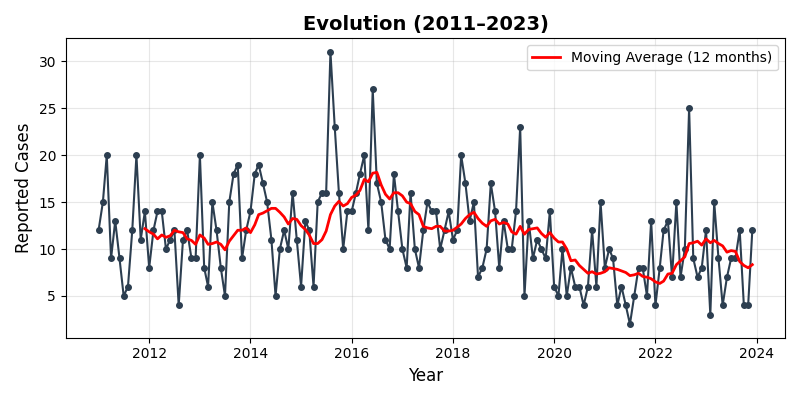
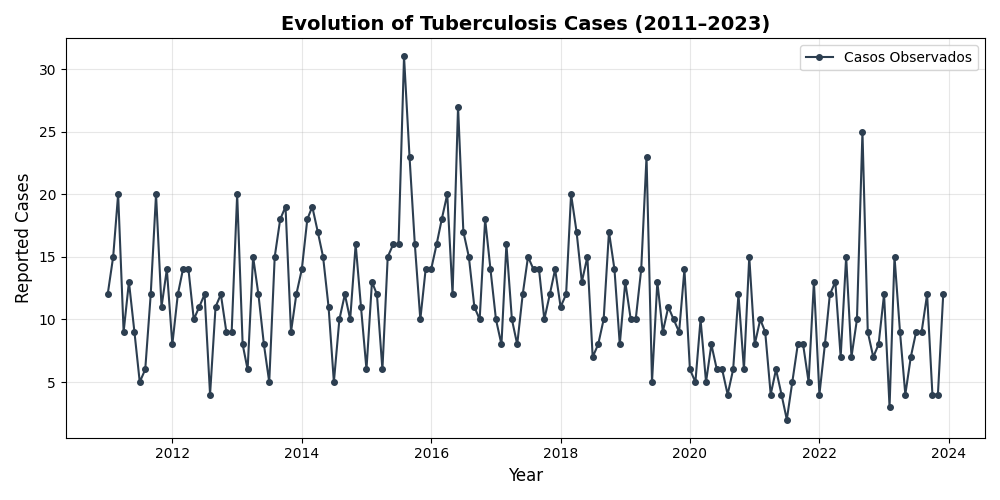
ff

Changed region(s): [[0.0, 0.03, 1.0, 0.96]]

diff --git a/code1.py b/code1.py
@@ -1,104 +1,85 @@
-
-import pandas as pd
-
-# Ler o Excel SEM tentar definir datas ou índices ainda
-df_temp = pd.read_excel('tuberculose_stp.xlsx')
-
-# Imprimir o nome de todas as colunas que o Python encontrou
-print("As colunas encontradas foram:")
-print(df_temp.columns.tolist())
-
-# Imprimir as primeiras 5 linhas para ver o aspeto dos dados
-print("\nPrimeiras linhas dos dados:")
-print(df_temp.head())
-
-
 import pandas as pd
 import matplotlib.pyplot as plt
+from statsmodels.tsa.stattools import adfuller
 
-# --- 1. Carregar os dados ---
-# Como o seu ficheiro parece ser CSV separado por vírgulas
+# %%
+# ==========================================
+# CÉLULA 1: CARREGAR E LIMPAR (Corra esta apenas uma vez)
+# ==========================================
+print("--- A CARREGAR DADOS ---")
 try:
     df = pd.read_csv('tuberculose_stp.csv')
 except:
-    # Caso seja Excel, tenta ler como Excel
     df = pd.read_excel('tuberculose_stp.xlsx')
 
-print("Dados carregados. Linhas totais:", len(df))
+print(f"Dados carregados. Total de linhas brutas: {len(df)}")
 
-# --- 2. Limpeza da coluna "Mês" ---
-# Vamos converter tudo para minúsculas e tirar espaços vazios para evitar erros
+# Normalizar a coluna "Mês"
 df['Mês'] = df['Mês'].astype(str).str.lower().str.strip()
 
-# Criar um mapa ROBUSTO baseado no que vi no seu ficheiro
 mapa_meses = {
-    'jan': 1, 'janeiro': 1,
-    'fev': 2, 'fevereiro': 2,
-    'mar': 3, 'março': 3,
-    'abr': 4, 'abril': 4,
-    'mai': 5, 'maio': 5,
-    'jun': 6, 'junho': 6,
-    'jul': 7, 'julho': 7,
-    'ago': 8, 'agosto': 8, 'agost': 8, # 'agost' apareceu no seu ficheiro
-    'set': 9, 'setembro': 9,
-    'out': 10, 'outubro': 10,
-    'nov': 11, 'novembro': 11,
-    'dez': 12, 'dezembro': 12
+    'jan': 1, 'janeiro': 1, 'fev': 2, 'fevereiro': 2, 'mar': 3, 'março': 3,
+    'abr': 4, 'abril': 4, 'mai': 5, 'maio': 5, 'jun': 6, 'junho': 6,
+    'jul': 7, 'julho': 7, 'ago': 8, 'agosto': 8, 'agost': 8,
+    'set': 9, 'setembro': 9, 'out': 10, 'outubro': 10,
+    'nov': 11, 'novembro': 11, 'dez': 12, 'dezembro': 12
 }
 
-# Aplicar o mapa
 df['Mes_Num'] = df['Mês'].map(mapa_meses)
-
-# Verificar se sobrou algum mês sem número (NaN)
-erros = df[df['Mes_Num'].isna()]
-if not erros.empty:
-    print("Atenção: Algumas linhas foram ignoradas por erro no mês:")
-    print(erros['Mês'].unique())
-    df = df.dropna(subset=['Mes_Num']) # Remove linhas com erro
-
-# Garantir que o mês é inteiro
+df = df.dropna(subset=['Mes_Num'])
 df['Mes_Num'] = df['Mes_Num'].astype(int)
 
-# --- 3. Criar a Data ---
-# Dia 1 de cada mês
-df['Data_Index'] = pd.to_datetime(
-    df['Ano'].astype(str) + '-' + df['Mes_Num'].astype(str) + '-01'
-)
-
-# --- 4. Agregação (Transformar lista de pacientes em Série Temporal) ---
-# Conta quantas linhas existem por cada data
+# Criar Data e Série Temporal
+df['Data_Index'] = pd.to_datetime(df['Ano'].astype(str) + '-' + df['Mes_Num'].astype(str) + '-01')
 df_final = df.groupby('Data_Index').size().reset_index(name='Casos')
-
-# Definir índice temporal
 df_final.set_index('Data_Index', inplace=True)
-
-# Preencher buracos: Se houver meses sem casos, coloca 0
 df_final = df_final.asfreq('MS', fill_value=0)
 
-# --- 5. Resultados e Guardar CSV Limpo ---
-print("\nSérie Temporal Gerada com Sucesso!")
-print(df_final.head())
-print(f"Total de casos contabilizados: {df_final['Casos'].sum()}")
+print("Série Temporal pronta! (Célula 1 concluída)")
 
-# Guardar este ficheiro limpo para usar depois (opcional)
-df_final.to_csv('tuberculose_stp_processado.csv')
 
-# --- 6. Gráfico Profissional ---
-plt.figure(figsize=(8, 4))
-plt.plot(df_final.index, df_final['Casos'], marker='o', markersize=4, linestyle='-', color='#2c3e50', linewidth=1.5)
+# %%
+# ==========================================
+# CÉLULA 2: ESTATÍSTICA (Teste ADF)
+# ==========================================
+def realizar_teste_adf(serie, nome="Série"):
+    print(f"\n--- TESTE DICKEY-FULLER: {nome} ---")
+    serie_limpa = serie.dropna()
+    resultado = adfuller(serie_limpa)
+    p_value = resultado[1]
+    
+    print(f'Estatística: {resultado[0]:.4f}')
+    print(f'Valor-p:     {p_value:.4f}')
+    
+    if p_value < 0.05:
+        print(">> CONCLUSÃO: A série é ESTACIONÁRIA (p < 0.05).")
+    else:
+        print(">> CONCLUSÃO: A série NÃO é estacionária (p > 0.05).")
 
-# Títulos
-plt.title('Evolution (2011–2023)', fontsize=14, fontweight='bold')
+# Executar Testes
+realizar_teste_adf(df_final['Casos'], nome="Original")
+diff_1 = df_final['Casos'].diff()
+realizar_teste_adf(diff_1, nome="1ª Diferença (d=1)")
+
+
+# %%
+# ==========================================
+# CÉLULA 3: GRÁFICO (Pode correr esta muitas vezes para ajustar visual)
+# ==========================================
+plt.figure(figsize=(10, 5))
+
+# Apenas os dados reais
+plt.plot(df_final.index, df_final['Casos'], 
+         marker='o', markersize=4, linestyle='-', 
+         color='#2c3e50', linewidth=1.5, label='Casos Observados')
+
+plt.title('Evolution of Tuberculosis Cases (2011–2023)', fontsize=14, fontweight='bold')
 plt.ylabel('Reported Cases', fontsize=12)
 plt.xlabel('Year', fontsize=12)
-
-# Adicionar uma média móvel (linha vermelha) para suavizar e ver melhor a tendência
-plt.plot(df_final.index, df_final['Casos'].rolling(window=12).mean(), color='red', linewidth=2, label= 'Moving Average (12 months)')
-
 plt.legend()
 plt.grid(True, alpha=0.3)
 plt.tight_layout()
 
-# Salvar gráfico
+print("A guardar gráfico...")
 plt.savefig('grafico_tuberculose_final.png')
 plt.show()

diff --git a/tempCodeRunnerFile.py b/tempCodeRunnerFile.py
@@ -1,43 +1,17 @@
-import matplotlib.pyplot as plt
+plt.figure(figsize=(10, 5))
 
-# 1. Carregar os dados brutos (Assumindo que o ficheiro é o mesmo)
-df = pd.read_excel('tuberculose_stp.xlsx')
+# Apenas os dados reais
+plt.plot(df_final.index, df_final['Casos'], 
+         marker='o', markersize=4, linestyle='-', 
+         color='#2c3e50', linewidth=1.5, label='Casos Observados')
 
-# 2. Criar um "Dicionário" para traduzir os meses de Texto para Número
-# Ajuste as abreviaturas se no seu Excel estiverem diferentes (ex: 'Mai' ou 'Maio')
-meses_map = {
-    'Jan': 1, 'Fev': 2, 'Mar': 3, 'Abr': 4, 'Mai': 5, 'Jun': 6,
-    'Jul': 7, 'Ago': 8, 'Set': 9, 'Out': 10, 'Nov': 11, 'Dez': 12
-}
-
-# 3. Criar uma coluna numérica para o mês
-df['Mes_Num'] = df['Mês'].map(meses_map)
-
-# 4. Criar uma coluna de Data válida (Ano-Mês-Dia)
-# O Pandas precisa de um dia, por isso vamos assumir sempre o dia 1 de cada mês
-df['Data_Index'] = pd.to_datetime(
-    df['Ano'].astype(str) + '-' + df['Mes_Num'].astype(str) + '-01'
-)
-
-# 5. A MÁGICA: Agrupar por data e contar as linhas (cada linha é 1 caso)
-df_final = df.groupby('Data_Index').size().reset_index(name='Casos')
-
-# 6. Definir a Data como Índice (Requisito para Séries Temporais)
-df_final.set_index('Data_Index', inplace=True)
-
-# 7. Verificar se há meses sem casos (Buracos na série temporal)
-# Isto garante que se um mês teve 0 casos, ele aparece como 0 e não desaparece
-df_final = df_final.asfreq('MS', fill_value=0) # 'MS' significa Month Start
-
-print("Série Temporal Criada com Sucesso:")
-print(df_final.head())
-
-# 8. Plotar o gráfico final
-plt.figure(figsize=(12, 6))
-plt.plot(df_final.index, df_final['Casos'], marker='o', linestyle='-', color='#007acc')
-plt.title('Incidência Mensal de Tuberculose em STP (2011-2023)')
-plt.xlabel('Data')
-plt.ylabel('Número de Casos')
+plt.title('Evolution of Tuberculosis Cases (2011–2023)', fontsize=14, fontweight='bold')
+plt.ylabel('Reported Cases', fontsize=12)
+plt.xlabel('Year', fontsize=12)
+plt.legend()
 plt.grid(True, alpha=0.3)
 plt.tight_layout()
-plt.show() # Vai abrir a janela com o gráfico
+
+print("A guardar gráfico...")
+plt.savefig('grafico_tuberculose_final.png')
+plt.show()
